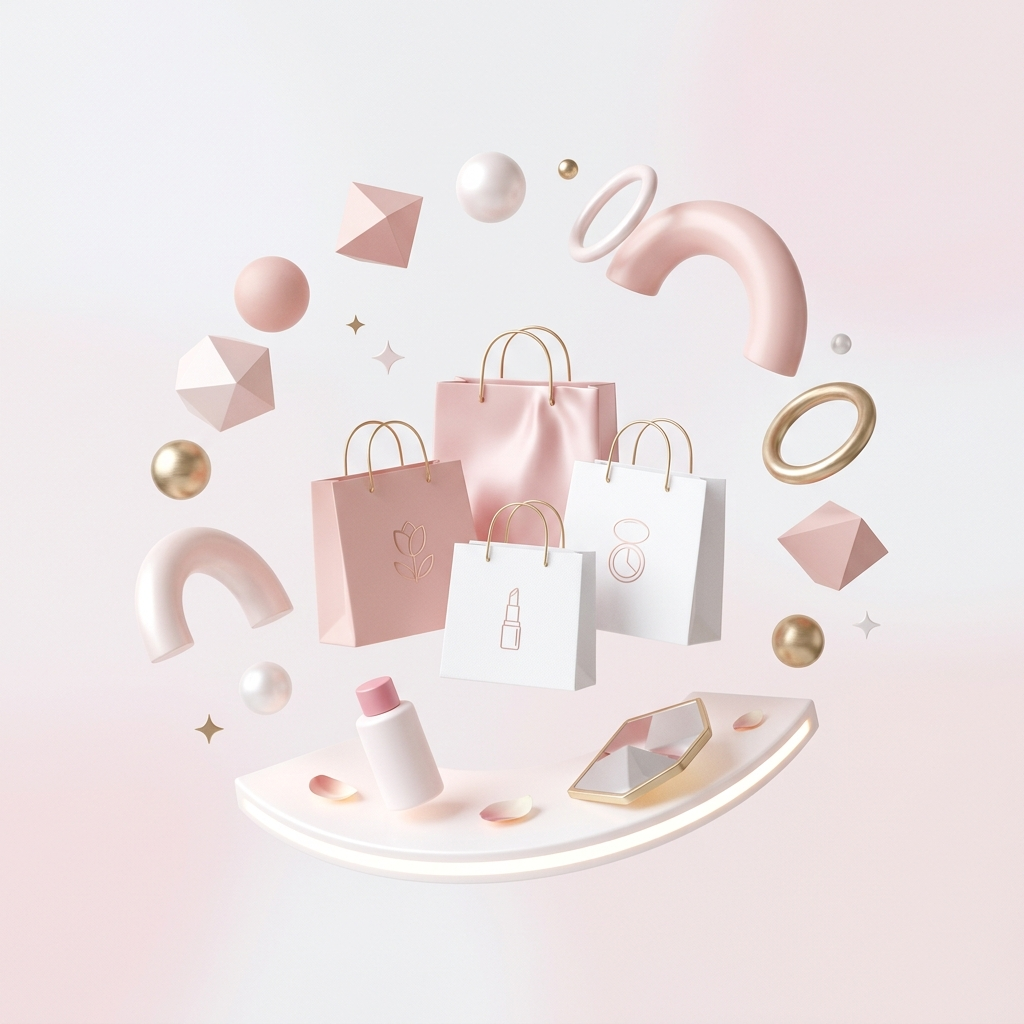
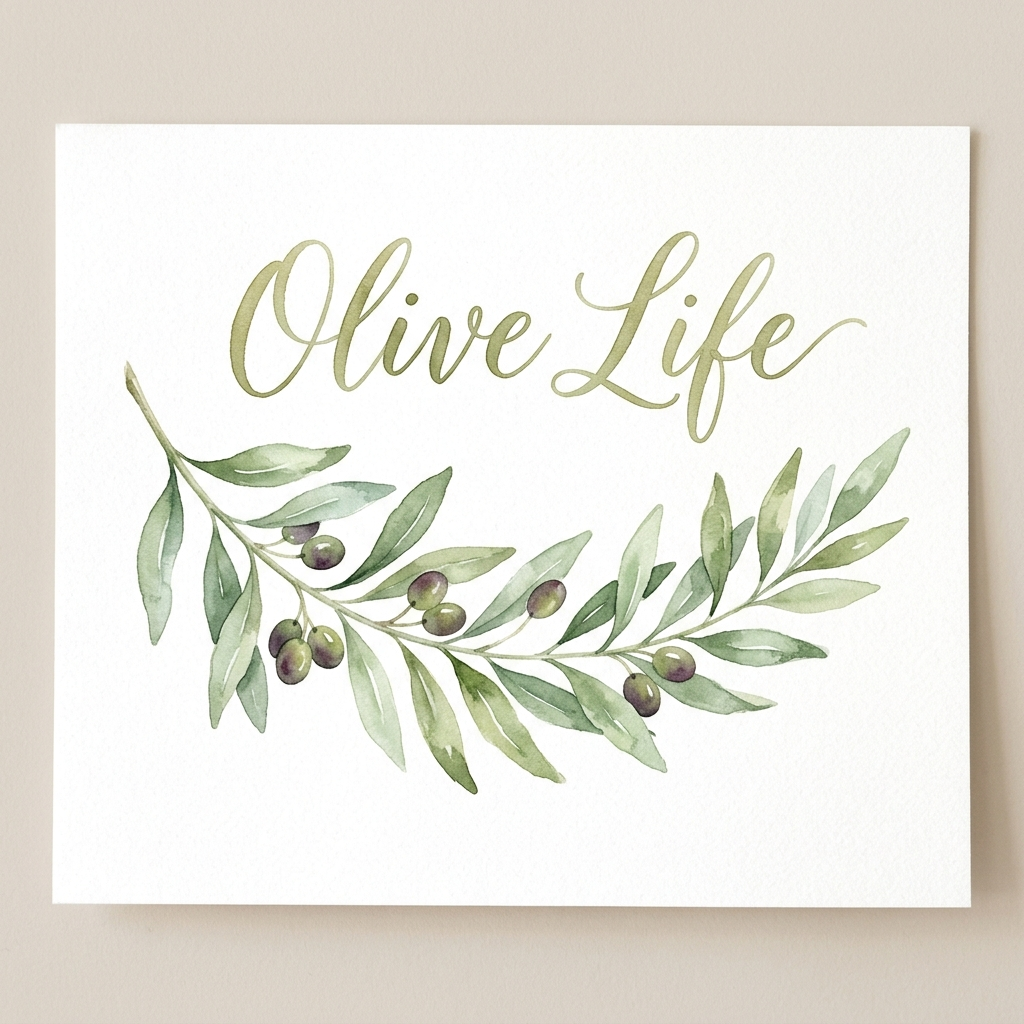
feat: first commit

diff --git a/project-olivelife.html b/project-olivelife.html
@@ -197,7 +197,7 @@
 		}
 		.cover-image {
 			width: 100%;
-			height: 400px;
+			height: 600px;
 			object-fit: cover;
 			border: var(--ink-border) !important;
 			border-radius: var(--wonky-border) !important;
@@ -271,7 +271,7 @@
                             <li class="nav-item mb-2"><a class="nav-link p-0 text-dark" href="#diagram">4. 아키텍처 다이어그램</a></li>
                             <li class="nav-item mb-2"><a class="nav-link p-0 text-dark" href="#features">5. 주요 기능</a></li>
                             <li class="nav-item mb-2"><a class="nav-link p-0 text-dark" href="#troubleshooting">6. 기술적 의사결정 & 트러블슈팅</a></li>
-                            <li class="nav-item mb-2"><a class="nav-link p-0 text-dark" href="#screenshots">7. 스크린샷</a></li>
+                            <!--<li class="nav-item mb-2"><a class="nav-link p-0 text-dark" href="#screenshots">7. 스크린샷</a></li>-->
                         </ul>
                     </nav>
                 </div>
@@ -308,10 +308,106 @@
                     
                     <section id="diagram" class="mb-5 pt-4">
                         <h2 class="mb-4" style="border-left: 5px solid var(--primary-color); padding-left: 15px;">4. 아키텍처 다이어그램</h2>
-                        <div class="text-center">
-                            <!-- Placeholder Image -->
-                            <img src="images/project_olivelife_1782292511114.png" alt="Architecture Diagram Placeholder" class="img-fluid" style="border: var(--ink-border); border-radius: 15px; box-shadow: 4px 4px 0px rgba(0,0,0,0.1);">
-                            <p class="mt-3 text-muted" style="font-size: 14px;">(※ 시스템 아키텍처 다이어그램 - 추후 실제 다이어그램으로 교체 예정)</p>
+                        <!-- 1. 어플리케이션 구조 -->
+                        <div class="mb-5">
+                            <h4 class="mb-3" style="font-family: 'Jua', sans-serif; color: var(--text-main);">4.1 서비스 아키텍쳐 (Service Architecture)</h4>
+                                                        <div class="text-center" style="overflow-x: auto;">
+                                <!-- Mermaid Diagram -->
+                                <div class="mermaid" style="background-color: white; padding: 20px; border-radius: 15px; border: var(--ink-border); box-shadow: 4px 4px 0px rgba(0,0,0,0.1); min-width: 800px; margin: 0 auto; text-align: left;">
+flowchart LR
+    classDef default fill:#fff,stroke:#333,stroke-width:1px,color:#333;
+    classDef client fill:#f8f9fa,stroke:#999,stroke-width:1px;
+    classDef cache fill:#e9ecef,stroke:#999,stroke-width:1px;
+    classDef db fill:#e9ecef,stroke:#999,stroke-width:1px;
+
+    Client("Client<br/>(Web / App / Postman)"):::client
+
+    subgraph Spring_Boot_Application ["Spring Boot Application"]
+        Auth("Auth / Member")
+        ProductSearch("Product / Search")
+        OrderPayment("Order / Payment / Coupon / Point")
+        Chat("Chat<br/>(WebSocket + STOMP)")
+    end
+
+    subgraph Search_Strategy ["Search Strategy"]
+        v1("v1<br/>DB Direct")
+        v2("v2<br/>Caffeine Cache")
+        v3("v3<br/>Redis Cache")
+    end
+
+    subgraph Redis_Layer ["Redis"]
+        RemoteCache("Remote Cache"):::cache
+        PopularKeyword("Popular Keyword<br/>ZSet"):::cache
+        PubSub("Pub/Sub"):::cache
+    end
+
+    JWT("JWT ChannelInterceptor")
+    CaffeineDB[("Caffeine")]:::db
+    MySQLDB[("MySQL")]:::db
+
+    Client --> Auth
+    Client --> ProductSearch
+    Client --> OrderPayment
+    Client <-->|WebSocket / STOMP| Chat
+
+    ProductSearch --> v1
+    ProductSearch --> v2
+    ProductSearch --> v3
+    ProductSearch --> PopularKeyword
+
+    OrderPayment --> JWT
+    Chat --> JWT
+
+    Chat <--> PubSub
+
+    v1 --> MySQLDB
+    v2 --> CaffeineDB
+    v3 --> RemoteCache
+
+    CaffeineDB --> MySQLDB
+    RemoteCache --> MySQLDB
+                                </div>
+                            </div>
+                        </div>
+
+                        <!-- 2. 인프라 아키텍처 -->
+                        <div>
+                            <h4 class="mb-3" style="font-family: 'Jua', sans-serif; color: var(--text-main);">4.2 인프라 아키텍처 (Infrastructure Architecture)</h4>
+                                                        <div class="text-center" style="overflow-x: auto;">
+                                <div class="mermaid" style="background-color: white; padding: 20px; border-radius: 15px; border: var(--ink-border); box-shadow: 4px 4px 0px rgba(0,0,0,0.1); min-width: 800px; margin: 0 auto; text-align: left;">
+                                    flowchart LR
+                                        classDef default fill:#fff,stroke:#333,stroke-width:1px,color:#333;
+                                        classDef ext fill:#f8f9fa,stroke:#999,stroke-width:1px;
+                                        classDef aws fill:#e9ecef,stroke:#999,stroke-width:1px;
+
+                                        Developer("Developer"):::ext
+                                        GitHub("GitHub"):::ext
+                                        GitHubSecrets("GitHub Secrets"):::ext
+                                        GitHubActions("GitHub Actions"):::ext
+                                        AmazonECR("Amazon ECR"):::aws
+
+                                        subgraph AWS ["AWS"]
+                                            SSM("SSM"):::aws
+                                            ParameterStore("Parameter Store"):::aws
+                                            EC2("EC2<br/>Spring Boot + Docker"):::aws
+                                            RDS("RDS<br/>(MySQL)"):::aws
+                                            ElastiCache("ElastiCache<br/>(Redis)"):::aws
+                                        end
+
+                                        Developer --> GitHub
+                                        GitHub --> GitHubActions
+                                        GitHubSecrets --> GitHubActions
+                                        GitHubActions --> AmazonECR
+                                        GitHubActions --> SSM
+
+                                        AmazonECR --> EC2
+                                        SSM --> EC2
+                                        ParameterStore --> EC2
+
+                                        EC2 --> RDS
+                                        EC2 --> ElastiCache
+                                </div>
+                            </div>
                         </div>
                     </section>
 
@@ -327,23 +423,27 @@
                         <h2 class="mb-4" style="border-left: 5px solid var(--primary-color); padding-left: 15px;">6. 기술적 의사결정 및 트러블슈팅</h2>
                         
                         <div style="background: #faf9f6; border: var(--ink-border); border-radius: 15px; padding: 25px; margin-bottom: 30px; box-shadow: 4px 4px 0px rgba(0,0,0,0.05);">
-                            <h3 style="font-size: 1.5rem; color: var(--primary-color); font-family: 'Jua', sans-serif;"><i class="icon-check-circle mr-2"></i>k6 분산 부하 테스트 환경 및 실패 로그 수집 파이프라인 구축</h3>
+                            <h3 style="font-size: 1.5rem; color: var(--primary-color); font-family: 'Jua', sans-serif;"><i class="icon-check-circle mr-2"></i>k6 부하 테스트 설계 및 다단계 캐시(Multi-Level Cache) 성능 검증</h3>
                             <h4 class="mt-4" style="font-size: 1.2rem; font-family: 'Jua', sans-serif;">배경</h4>
-                            <p>선착순 쿠폰 발급 및 동시성 검증 과정에서 단일 k6 인스턴스만으로는 충분한 부하 생성이 어려웠으며, 실패 요청의 상세 응답을 수집할 수 없어 장애 원인 분석에 많은 시간이 소요되었습니다.</p>
+                            <p>사전 부하 테스트 시 100 VUs부터 심각한 성능 저하가 발생하는 것을 확인했습니다. 이에 서버 한계를 상회하는 부하를 가해 Breaking Point를 특정하고, 장애 상황을 재현하여 근본적인 병목 지점을 찾기 위한 체계적인 부하 테스트가 필요했습니다.</p>
                             
                             <h4 class="mt-4" style="font-size: 1.2rem; font-family: 'Jua', sans-serif;">기술적 의사결정</h4>
-                            <p>k6 단일 인스턴스의 부하 생성 한계를 해결하고 장애 분석 효율성을 높이기 위해 분산 부하 테스트 환경과 서버 측 실패 로그 수집 체계를 함께 구축했습니다.</p>
+                            <p>Docker 기반으로 k6(부하 생성)와 InfluxDB, Grafana(실시간 모니터링)를 연동하여 멱등성 있는 테스트 환경을 구축했습니다. 또한, 단순한 트래픽 주입이 아닌 30s(Ramp-up) → 1m(Steady) → 30s(Step-up)의 단계별 부하 증가 시나리오(목표 150 VUs)를 설계하여 단계별 캐시 전략(v1~v3)의 성능을 정밀하게 비교 분석하기로 결정했습니다.</p>
                             
                             <h4 class="mt-4" style="font-size: 1.2rem; font-family: 'Jua', sans-serif;">주요 구현</h4>
                             <ul style="line-height: 1.8;">
-                                <li>Docker Compose 기반 k6 · InfluxDB · Grafana 환경 구축</li>
-                                <li>Nginx Round-Robin 기반 다중 k6 인스턴스 분산 실행</li>
-                                <li>시나리오별 부하 테스트 스크립트 작성 및 K6LogController 기반 실패 요청 본문 수집</li>
-                                <li>Logback 전용 Appender 및 로그 다운로드 API 구현</li>
+                                <li><strong>부하 테스트 환경 구축:</strong> k6, Docker, InfluxDB, Grafana를 활용한 실시간 성능 모니터링 체계 구축</li>
+                                <li><strong>테스트 시나리오 설계:</strong> 에러율 5% 미만, p(95) 응답속도 500ms 이내를 목표로 점진적 부하 증가 전략 적용</li>
+                                <li><strong>v1(No Cache) 병목 분석:</strong> 타임아웃(<code>dial: i/o timeout</code>) 발생 및 상위 5% 사용자 11초 이상 대기 현상 확인. 느린 DB 조회가 연결 자원을 모두 점유해 후순위 요청이 실패하는 '자원 고갈' 원인 도출</li>
+                                <li><strong>캐시 전략별 성능 비교:</strong> v1(No Cache), v2(Local Cache), v3(Redis Cache) 환경에서의 평균 응답 시간, p(95) 응답 시간, TPS, 에러율 비교 검증</li>
                             </ul>
                             
                             <h4 class="mt-4" style="font-size: 1.2rem; font-family: 'Jua', sans-serif;">성과</h4>
-                            <p class="mb-0"><strong>최대 Virtual User 약 200명에서 1,000명 이상(5배 확장)으로 검증에 성공.</strong> 실패 원인 분석 시간을 30분에서 1분 이내로 단축하여 대규모 트래픽 환경에 대한 부하 테스트 신뢰성 확보 및 원인 추적 대응 속도를 향상했습니다.</p>
+                            <p class="mb-0">캐시 미적용 시 발생하던 <strong>2.75%의 에러율을 0.00%로 완벽하게 해결</strong>했습니다. p(95) 응답 시간을 <strong>11.68초에서 약 112.14ms(v3 기준)로 획기적으로 단축</strong>했습니다. v3(Redis Cache) 도입을 통해 <strong>TPS를 16.27에서 75.96으로 약 4.6배 향상</strong>시켰으며, 분산 환경에서의 데이터 정합성과 확장성(Scale-out)을 모두 보장하는 최적의 아키텍처를 도출했습니다.</p>
+
+                            <div class="mt-4 text-center">
+                                <img src="images/Olive-k6.png" alt="Saga Transaction Flow Placeholder" class="img-fluid">
+                            </div>
                         </div>
                         
                         <div style="background: #faf9f6; border: var(--ink-border); border-radius: 15px; padding: 25px; margin-bottom: 30px; box-shadow: 4px 4px 0px rgba(0,0,0,0.05);">
@@ -385,20 +485,20 @@
                         </div>
                     </section>
 
-                    <section id="screenshots" class="mb-5 pt-4">
-                        <h2 class="mb-4" style="border-left: 5px solid var(--primary-color); padding-left: 15px;">7. 스크린샷</h2>
+                    <!--<section id="screenshots" class="mb-5 pt-4">
+                        <h2 class="mb-4" style="border-left: 5px solid var(&#45;&#45;primary-color); padding-left: 15px;">7. 스크린샷</h2>
                         <div class="row">
                             <div class="col-md-6 mb-4">
-                                <!-- Placeholder Image -->
-                                <img src="images/project_olivelife_1782292511114.png" alt="Screenshot 1 Placeholder" class="img-fluid" style="border: var(--ink-border); border-radius: 15px; box-shadow: 4px 4px 0px rgba(0,0,0,0.1);">
+                                &lt;!&ndash; Placeholder Image &ndash;&gt;
+                                <img src="images/project_olivelife_1782292511114.png" alt="Screenshot 1 Placeholder" class="img-fluid" style="border: var(&#45;&#45;ink-border); border-radius: 15px; box-shadow: 4px 4px 0px rgba(0,0,0,0.1);">
                             </div>
                             <div class="col-md-6 mb-4">
-                                <!-- Placeholder Image -->
-                                <img src="images/project_olivelife_1782292511114.png" alt="Screenshot 2 Placeholder" class="img-fluid" style="border: var(--ink-border); border-radius: 15px; box-shadow: 4px 4px 0px rgba(0,0,0,0.1);">
+                                &lt;!&ndash; Placeholder Image &ndash;&gt;
+                                <img src="images/project_olivelife_1782292511114.png" alt="Screenshot 2 Placeholder" class="img-fluid" style="border: var(&#45;&#45;ink-border); border-radius: 15px; box-shadow: 4px 4px 0px rgba(0,0,0,0.1);">
                             </div>
                         </div>
                         <p class="text-muted text-center mt-2" style="font-size: 14px;">(※ 화면 스크린샷 - 추후 실제 이미지로 교체 예정)</p>
-                    </section>
+                    </section>-->
 
                     <div class="text-center mt-5 mb-5 pt-5 pb-5 border-top">
                         <a href="index.html#projects-section" class="btn btn-primary py-3 px-5" style="font-size: 1.3rem !important;">목록으로 돌아가기</a>
@@ -417,5 +517,11 @@
 	<script src="js/jquery.min.js"></script>
 	<script src="js/bootstrap.min.js"></script>
 	<script src="js/main.js"></script>
+    
+    <!-- Mermaid JS for Architecture Diagram -->
+    <script src="https://cdn.jsdelivr.net/npm/mermaid@10.6.1/dist/mermaid.min.js"></script>
+    <script>
+        mermaid.initialize({ startOnLoad: true, theme: 'default' });
+    </script>
 </body>
 </html>

diff --git a/project-polaris.html b/project-polaris.html
@@ -197,7 +197,7 @@
 		}
 		.cover-image {
 			width: 100%;
-			height: 400px;
+			height: 600px;
 			object-fit: cover;
 			border: var(--ink-border) !important;
 			border-radius: var(--wonky-border) !important;
@@ -282,7 +282,7 @@
                     
                     <section id="background" class="mb-5 pt-4">
                         <!-- User explicitly requested the image ABOVE the background section -->
-                        <img src="images/project_polaris_1782292499945.png" alt="Polaris Cover" class="cover-image mb-5">
+                        <img src="images/Polaris_Cover.png" alt="Polaris Cover" class="cover-image mb-5">
                         
                         <h2 class="mb-4" style="border-left: 5px solid var(--primary-color); padding-left: 15px;">1. 주제 선정 배경</h2>
                         <p>사용자가 AI 캐릭터와 함께 일상 루틴을 즐겁게 생성·수행하고, 보상으로 획득한 별조각을 활용해 다양한 아이템을 구매하며 꾸준한 습관 형성을 돕는 서비스를 기획했습니다. 특히 마이크로서비스 간의 통신이 잦은 구조에서, 사용자가 재화를 잃지 않고 언제나 신뢰할 수 있는 안정적인 데이터 정합성 환경을 구축하는 것이 핵심 기술적 목표였습니다.</p>
@@ -312,10 +312,20 @@
                     
                     <section id="diagram" class="mb-5 pt-4">
                         <h2 class="mb-4" style="border-left: 5px solid var(--primary-color); padding-left: 15px;">4. 아키텍처 다이어그램</h2>
-                        <div class="text-center">
-                            <!-- Placeholder Image -->
-                            <img src="images/project_polaris_1782292499945.png" alt="Architecture Diagram Placeholder" class="img-fluid" style="border: var(--ink-border); border-radius: 15px; box-shadow: 4px 4px 0px rgba(0,0,0,0.1);">
-                            <p class="mt-3 text-muted" style="font-size: 14px;">(※ 시스템 아키텍처 다이어그램 - 추후 실제 다이어그램으로 교체 예정)</p>
+                        <!-- 1. 어플리케이션 구조 -->
+                        <div class="mb-5">
+                            <h4 class="mb-3" style="font-family: 'Jua', sans-serif; color: var(--text-main);">4.1 어플리케이션 구조 (Application Architecture)</h4>
+                            <div class="text-center">
+                                <img src="images/Polaris_Application.png" class="img-fluid" style="border: var(--ink-border); border-radius: 15px; box-shadow: 4px 4px 0px rgba(0,0,0,0.1);">
+                            </div>
+                        </div>
+
+                        <!-- 2. 인프라 아키텍처 -->
+                        <div>
+                            <h4 class="mb-3" style="font-family: 'Jua', sans-serif; color: var(--text-main);">4.2 인프라 아키텍처 (Infrastructure Architecture)</h4>
+                            <div class="text-center">
+                                <img src="images/Polaris_Achitecture.png" class="img-fluid" style="border: var(--ink-border); border-radius: 15px; box-shadow: 4px 4px 0px rgba(0,0,0,0.1);">
+                            </div>
                         </div>
                     </section>
 
@@ -348,7 +358,11 @@
                             </ul>
                             
                             <h4 class="mt-4" style="font-size: 1.2rem; font-family: 'Jua', sans-serif;">성과</h4>
-                            <p class="mb-0"><strong>분산 트랜잭션 불일치 건수 일 평균 5건 → 0건</strong>으로 개선하여 사용자 재화 손실 문제를 완전히 제거했습니다. 사용자는 서비스 장애 상황에서도 아이템 미지급 없이 안전하게 상점을 이용할 수 있습니다.</p>
+                            <p><strong>분산 트랜잭션 불일치 건수 일 평균 5건 → 0건</strong>으로 개선하여 사용자 재화 손실 문제를 완전히 제거했습니다. 사용자는 서비스 장애 상황에서도 아이템 미지급 없이 안전하게 상점을 이용할 수 있습니다.</p>
+
+                            <div class="mt-4 text-center">
+                                <img src="images/Polaris-saga.png" alt="Saga Transaction Flow Placeholder" class="img-fluid">
+                            </div>
                         </div>
                         
                         <div style="background: #faf9f6; border: var(--ink-border); border-radius: 15px; padding: 25px; margin-bottom: 30px; box-shadow: 4px 4px 0px rgba(0,0,0,0.05);">
@@ -369,6 +383,10 @@
                             
                             <h4 class="mt-4" style="font-size: 1.2rem; font-family: 'Jua', sans-serif;">성과</h4>
                             <p class="mb-0">AI 서버 장애 상황에 대한 테스트를 완벽히 자동화하였고, 배포 전 예외 처리 로직을 사전 검증하는 프로세스를 확립했습니다. 덕분에 <strong>실제 AI 서버 장애 상황에서도 사용자가 루틴 생성 기능을 안정적으로 이용할 수 있는 강력한 서비스 복원력(Resiliency)</strong>을 확보했습니다.</p>
+
+                            <div class="mt-4 text-center">
+                                <img src="images/Polaris-dashboard.png" alt="Saga Transaction Flow Placeholder" class="img-fluid">
+                            </div>
                         </div>
 
                         <div style="background: #faf9f6; border: var(--ink-border); border-radius: 15px; padding: 25px; margin-bottom: 30px; box-shadow: 4px 4px 0px rgba(0,0,0,0.05);">
@@ -394,17 +412,20 @@
 
                     <section id="screenshots" class="mb-5 pt-4">
                         <h2 class="mb-4" style="border-left: 5px solid var(--primary-color); padding-left: 15px;">7. 스크린샷</h2>
-                        <div class="row">
-                            <div class="col-md-6 mb-4">
+                        <div class="row text-center">
+                            <div class="col-md-4 mb-4">
                                 <!-- Placeholder Image -->
-                                <img src="images/project_polaris_1782292499945.png" alt="Screenshot 1 Placeholder" class="img-fluid" style="border: var(--ink-border); border-radius: 15px; box-shadow: 4px 4px 0px rgba(0,0,0,0.1);">
+                                <img src="images/Polaris-screen-1.png" alt="Screenshot 1 Placeholder" class="img-fluid" style="border: var(--ink-border); border-radius: 15px; box-shadow: 4px 4px 0px rgba(0,0,0,0.1);">
                             </div>
-                            <div class="col-md-6 mb-4">
+                            <div class="col-md-4 mb-4">
                                 <!-- Placeholder Image -->
-                                <img src="images/project_polaris_1782292499945.png" alt="Screenshot 2 Placeholder" class="img-fluid" style="border: var(--ink-border); border-radius: 15px; box-shadow: 4px 4px 0px rgba(0,0,0,0.1);">
+                                <img src="images/Polaris-screen-2.png" alt="Screenshot 2 Placeholder" class="img-fluid" style="border: var(--ink-border); border-radius: 15px; box-shadow: 4px 4px 0px rgba(0,0,0,0.1);">
+                            </div>
+                            <div class="col-md-4 mb-4">
+                                <!-- Placeholder Image -->
+                                <img src="images/Polaris-screen-3.png" alt="Screenshot 3 Placeholder" class="img-fluid" style="border: var(--ink-border); border-radius: 15px; box-shadow: 4px 4px 0px rgba(0,0,0,0.1);">
                             </div>
                         </div>
-                        <p class="text-muted text-center mt-2" style="font-size: 14px;">(※ 앱 화면 스크린샷 - 추후 실제 이미지로 교체 예정)</p>
                     </section>
 
                     <div class="text-center mt-5 mb-5 pt-5 pb-5 border-top">
@@ -415,11 +436,11 @@
         </div>
     </section>
 
-	<footer class="ftco-footer ftco-section pb-4 pt-4 mt-5">
+	<!--<footer class="ftco-footer ftco-section pb-4 pt-4 mt-5">
 		<div class="container text-center">
 			<p>Copyright &copy;<script>document.write(new Date().getFullYear());</script> All rights reserved</p>
 		</div>
-	</footer>
+	</footer>-->
 
 	<script src="js/jquery.min.js"></script>
 	<script src="js/bootstrap.min.js"></script>

diff --git a/index.html b/index.html
@@ -458,7 +458,7 @@
             <!-- Polaris -->
             <div class="col-md-6 d-flex ftco-animate">
                 <div class="project-card w-100 position-relative">
-                    <div class="img d-block" style="background-image: url(images/project_polaris_1782292499945.png);"></div>
+                    <div class="img d-block" style="background-image: url(images/Polaris_Cover.png);"></div>
                     <div class="text">
                         <h3><a href="project-polaris.html" class="stretched-link">Polaris</a></h3>
                         <p class="subheading">별친구와 함께하는 AI 루틴 서비스</p>